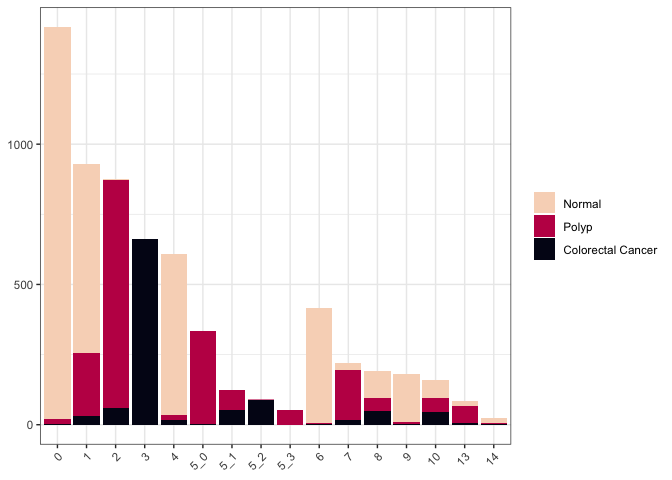
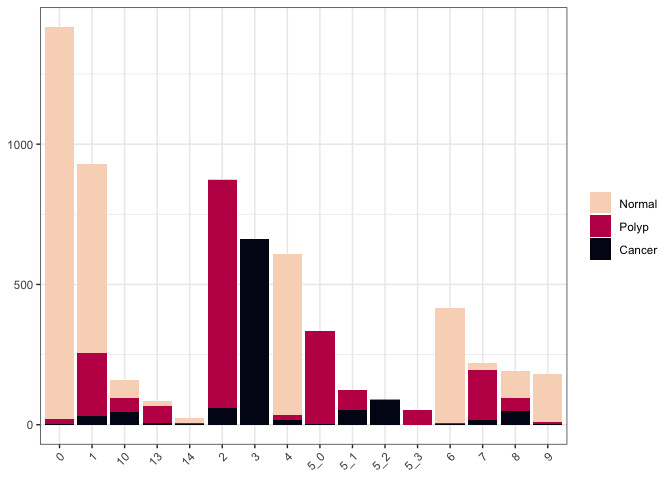
updating data to reflect new CSV format for sc expression matrix

diff --git a/R/03-barplot.md b/R/03-barplot.md
@@ -55,21 +55,15 @@ We will be using a few different data sources in this section.
 
 ``` r
 # cluster membership data for bar chart
-sc.data <- readRDS("scRNA_workshop-05.rds")@meta.data
-sc.data$barcode <- rownames(sc.data)
-sc.data$subcluster_ScType_filtered <- gsub("Unknown", NA, sc.data$subcluster_ScType_filtered)
-sc.data <- sc.data[,c("barcode", "group", "Phase", "subcluster", "subcluster_ScType_filtered")]
+sc.data <- read.csv("sc_data.csv")
+cluster.data <- select(sc.data, cell, subcluster, subcluster_ScType_filtered)
+cluster.data$subcluster_ScType_filtered <- gsub("Unknown", NA, cluster.data$subcluster_ScType_filtered)
+cluster.data$group <- factor(gsub("B001-A-301", "Normal", gsub("A001-C-104", "Polyp", gsub("A001-C-007", "Cancer", sapply(strsplit(cluster.data$cell, split = "_"), "[[", 2)))), levels = c("Normal", "Polyp", "Cancer"))
 # KEGG data for column chart
 kegg <- read.csv("mouse_KEGG.csv")
 # expression value data for column chart
-expression.data <- as.matrix(readRDS("scRNA_workshop-05.rds")@assays$RNA$data)
-markers <- c("SATB2", "NXPE1", "PDE3A", "CFTR", "HNF1A-AS1", "ADAMTSL1", "AC073050.1", "PID1", "NEO1", "XIST", "NR5A2", "AC019330.1", "CNTN4", "CNTN3", "SPON1", "LEFTY1")
-markers <- markers[markers %in% rownames(expression.data)]
-expression.data <- expression.data[markers,]
-expression.df <- as.data.frame(t(expression.data))
-expression.df$barcode <- rownames(expression.df)
-expression.pivot <- pivot_longer(expression.df, names_to = "gene", values_to = "normalized.counts", cols = SATB2:LEFTY1)
-rm(expression.data, markers, expression.df)
+expression.pivot <- pivot_longer(sc.data, names_to = "gene", values_to = "normalized.counts", cols = SATB2:LEFTY1) %>%
+  select(cell, gene, normalized.counts)
 # treatment data for alluvial diagram
 treatment.df <- read.csv("treatment.csv")
 # VDJ data for chord diagrams
@@ -81,7 +75,7 @@ Count-based data is the simplest and most straightforward application of
 this type of chart.
 
 ``` r
-ggplot(data = sc.data, mapping = aes(x = subcluster, fill = group)) +
+ggplot(data = cluster.data, mapping = aes(x = subcluster, fill = group)) +
   geom_bar() +
   scale_fill_viridis_d(option = "rocket", end = 0.95, direction = -1) +
   theme_bw() +
@@ -237,6 +231,41 @@ ggplot(data = treatment.categorical, mapping = aes(axis1 = day_0,
 # Prepare for the next section
 
 ``` r
-download.file("https://raw.githubusercontent.com/ucdavis-bioinformatics-training/2025-August-Intermediate-Visualization-for-Bioinformatics/R/04-custom.Rmd")
+download.file("https://raw.githubusercontent.com/ucdavis-bioinformatics-training/2025-August-Intermediate-Visualization-for-Bioinformatics/refs/heads/master/R/04-custom.Rmd", "04-custom.Rmd")
 sessionInfo()
 ```
+
+    ## R version 4.5.1 (2025-06-13)
+    ## Platform: aarch64-apple-darwin20
+    ## Running under: macOS Monterey 12.4
+    ## 
+    ## Matrix products: default
+    ## BLAS:   /Library/Frameworks/R.framework/Versions/4.5-arm64/Resources/lib/libRblas.0.dylib 
+    ## LAPACK: /Library/Frameworks/R.framework/Versions/4.5-arm64/Resources/lib/libRlapack.dylib;  LAPACK version 3.12.1
+    ## 
+    ## locale:
+    ## [1] en_US.UTF-8/en_US.UTF-8/en_US.UTF-8/C/en_US.UTF-8/en_US.UTF-8
+    ## 
+    ## time zone: America/Los_Angeles
+    ## tzcode source: internal
+    ## 
+    ## attached base packages:
+    ## [1] stats     graphics  grDevices utils     datasets  methods   base     
+    ## 
+    ## other attached packages:
+    ## [1] circlize_0.4.16   ggalluvial_0.12.5 tidyr_1.3.1       dplyr_1.1.4      
+    ## [5] ggplot2_3.5.2    
+    ## 
+    ## loaded via a namespace (and not attached):
+    ##  [1] vctrs_0.6.5         cli_3.6.5           knitr_1.50         
+    ##  [4] rlang_1.1.6         xfun_0.52           purrr_1.1.0        
+    ##  [7] generics_0.1.4      labeling_0.4.3      glue_1.8.0         
+    ## [10] colorspace_2.1-1    htmltools_0.5.8.1   GlobalOptions_0.1.2
+    ## [13] scales_1.4.0        rmarkdown_2.29      grid_4.5.1         
+    ## [16] evaluate_1.0.4      tibble_3.3.0        fastmap_1.2.0      
+    ## [19] yaml_2.3.10         lifecycle_1.0.4     compiler_4.5.1     
+    ## [22] RColorBrewer_1.1-3  pkgconfig_2.0.3     rstudioapi_0.17.1  
+    ## [25] farver_2.1.2        digest_0.6.37       viridisLite_0.4.2  
+    ## [28] R6_2.6.1            tidyselect_1.2.1    shape_1.4.6.1      
+    ## [31] pillar_1.11.0       magrittr_2.0.3      withr_3.0.2        
+    ## [34] tools_4.5.1         gtable_0.3.6
